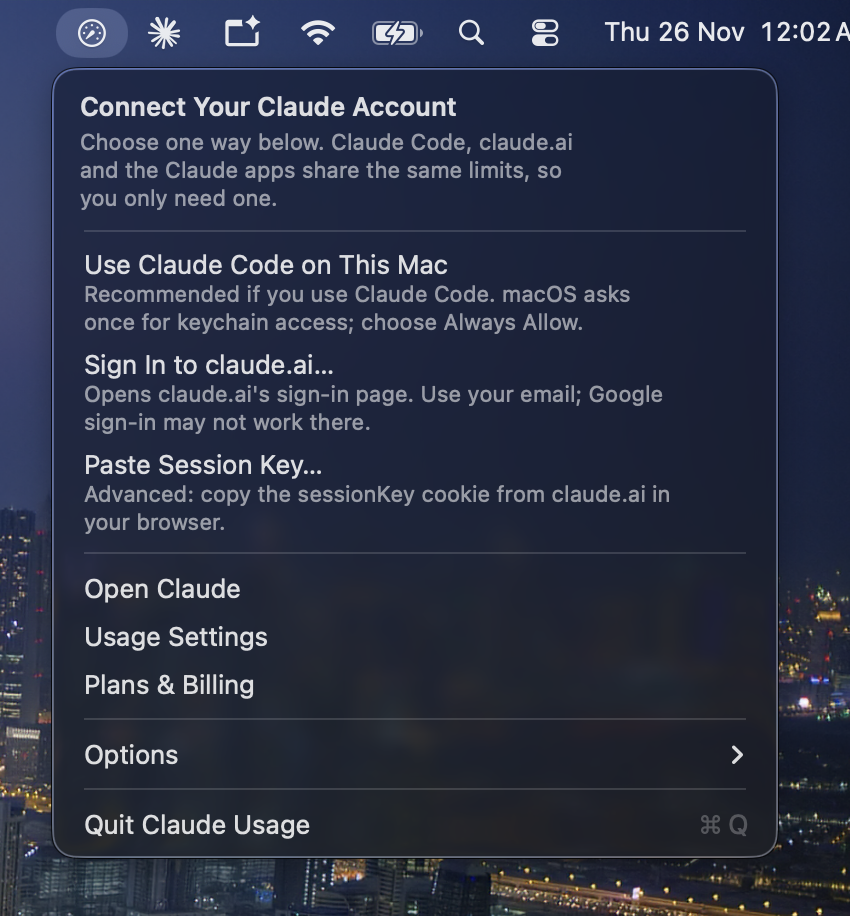
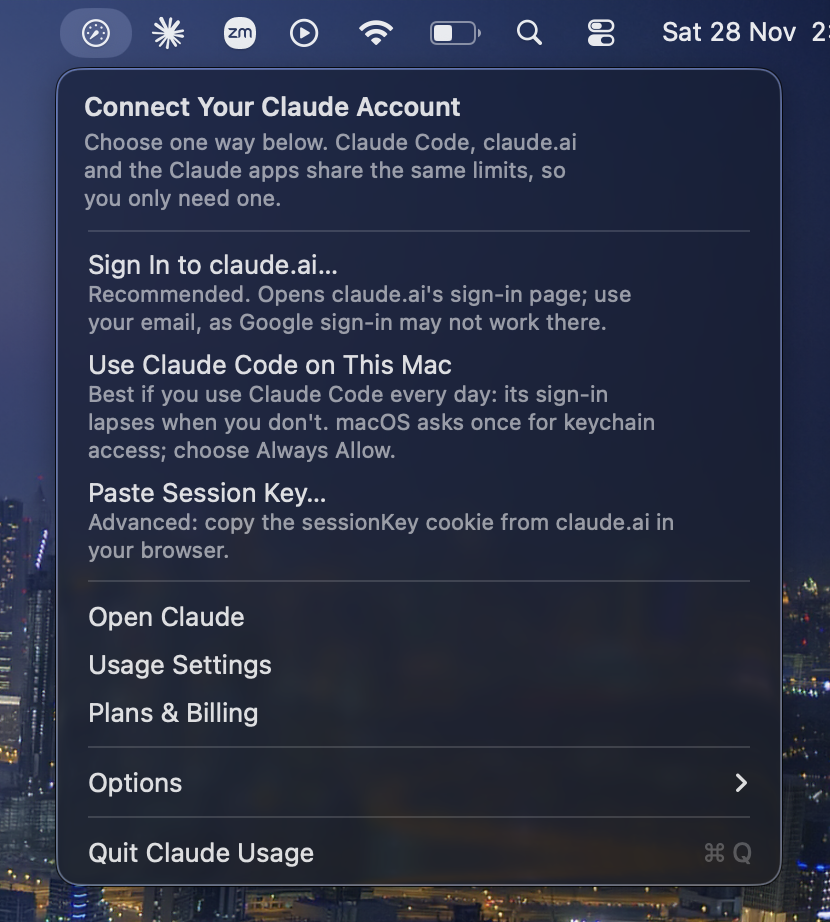
README: screenshot of the new connect menu
Claude-Session: https://claude.ai/code/session_01CasZzAU5qTa2kvEpfvxW54

Changed region(s): [[0.0, 0.0, 1.0, 1.0], [0.6024, 0.0, 0.6627, 0.0917], [0.8434, 0.7948, 0.8735, 0.8253]]

diff --git a/README.md b/README.md
@@ -119,7 +119,7 @@ git clone https://github.com/anuragk47/claude-usage-bar.git && cd claude-usage-b
 
 The first time it opens, the menu drops down by itself and asks you to connect. Pick **one** option — Claude Code, claude.ai and the Claude apps all share the same limits, so any of them shows the same numbers.
 
-<p align="center"><img src="docs/images/setup.png" width="425" alt="The connect menu on first launch"></p>
+<p align="center"><img src="docs/images/setup.png" width="415" alt="The connect menu on first launch: Sign In to claude.ai (recommended), Use Claude Code on This Mac, Paste Session Key"></p>
 
 ### Option A — Sign In to claude.ai *(recommended)*
 
